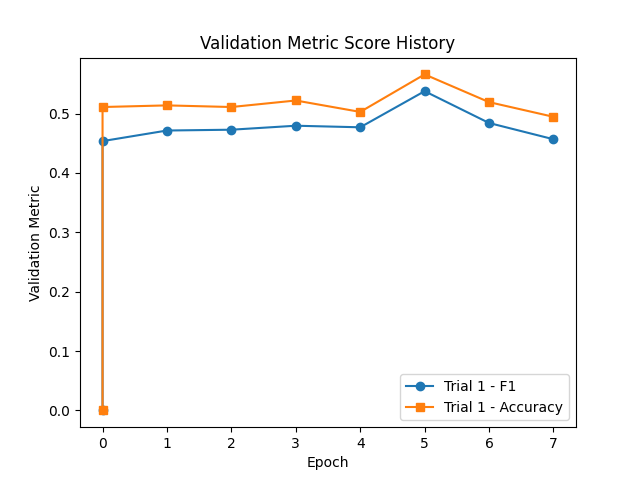
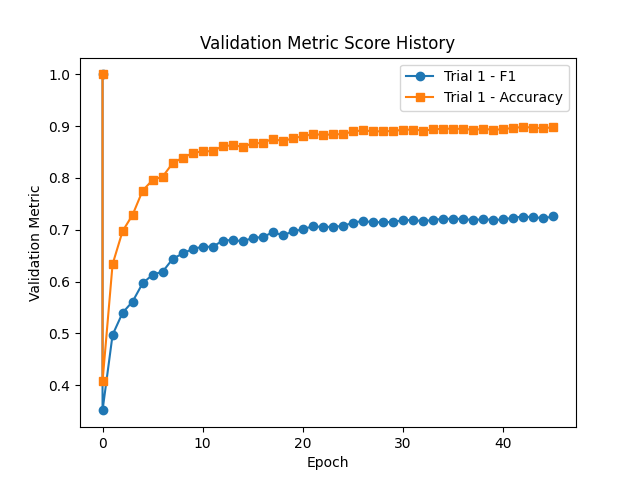
code for c data

diff --git a/sourcescripts/processing/graphconstruction.py b/sourcescripts/processing/graphconstruction.py
@@ -23,7 +23,7 @@ from dataprocessing import get_dep_add_lines_dataset
 def check_validity(_id):
     """Check whether sample with id=_id has enough node/edges."""
     try:
-        with open(f"{utls.processed_dir()}/dataset/before/{_id}.java.nodes.json", "r") as f:
+        with open(f"{utls.processed_dir()}/dataset/before/{_id}.c.nodes.json", "r") as f:
             nodes = json.load(f)
             lineNums = set()
             for n in nodes:
@@ -34,7 +34,7 @@ def check_validity(_id):
             if len(lineNums) <= 1:
                 return False
 
-        with open(f"{utls.processed_dir()}/dataset/before/{_id}.java.edges.json", "r") as f:
+        with open(f"{utls.processed_dir()}/dataset/before/{_id}.c.edges.json", "r") as f:
             edges = json.load(f)
             edge_set = set([i[2] for i in edges])
             if "REACHING_DEF" not in edge_set and "CDG" not in edge_set:
@@ -95,7 +95,7 @@ def process_item(_id, df, codebert=None, word2vec=None, sbert=None, lines=None, 
         return g
 
     code, lineno, ei, eo, et = feature_extraction(
-        f"{utls.processed_dir()}/dataset/before/{_id}.java", graph_type)
+        f"{utls.processed_dir()}/dataset/before/{_id}.c", graph_type)
     vuln = [1 if i in lines[_id] else 0 for i in lineno] if _id in lines else [0 for _ in lineno]
 
     g = dgl.graph((eo, ei))

diff --git a/sourcescripts/processing/dataprocessing.py b/sourcescripts/processing/dataprocessing.py
@@ -148,7 +148,7 @@ def dataset(minimal=True, sample=False, return_raw=False, splits="default"):
             return df
         except Exception as E:
             pass
-    filename = "sample_data.csv" if sample else        "ProjectKB_domain_csv.csv"         #"data_FFmpeg+qemu.csv" #"ProjectKB_domain_csv.csv" # 
+    filename = "sample_data.csv" if sample else    "MSR_data_cleaned.csv" #    "ProjectKB_domain_csv.csv"         #"data_FFmpeg+qemu.csv" #"ProjectKB_domain_csv.csv" # 
     df = pd.read_csv(utls.external_dir() / filename)
    
     df["dataset"] = "dataset" # change this to kbdataset
@@ -512,8 +512,8 @@ def helper(row):
     removed = df[df.id==177775].removed.item()
     helper({"id":177775, "removed": removed, "added": added})
     """
-    before_path = str(utls.processed_dir() / f"dataset/before/{row['id']}.java")
-    after_path = str(utls.processed_dir() / f"dataset/after/{row['id']}.java")
+    before_path = str(utls.processed_dir() / f"dataset/before/{row['id']}.c")
+    after_path = str(utls.processed_dir() / f"dataset/after/{row['id']}.c")
     try:
         dep_add_lines = get_dep_add_lines(before_path, after_path, row["added"])
     except Exception:

diff --git a/sourcescripts/model/scvuldetect.py b/sourcescripts/model/scvuldetect.py
@@ -645,6 +645,8 @@ def train_with_param_trials(df, graph_dir, config_grid):
         )
 
         trainer = Trainer(
+            devices=1,
+            num_nodes=1,
             max_epochs=config_grid['max_epochs'],
             callbacks=[checkpoint_callback, early_stopping_callback],
             logger=False,
@@ -693,7 +695,7 @@ def train_with_param_trials(df, graph_dir, config_grid):
 if __name__ == '__main__':
     df = dataset()
     config_grid = {
-       "method": "linelevel", # 'linelevel', # methodlevel, linelevel,
+       "method": "linelevel1", # 'linelevel', # methodlevel, linelevel,
         "embedd_method":  "Codebert", # "Codebert", "Sbert", or "Word2vec"
         'max_epochs':50, # 30,
         'in_feats': 768,   #768 for "Codebert", #384 for "Sbert", and  #100 for "Word2vec"

diff --git a/sourcescripts/processing/graphdata.py b/sourcescripts/processing/graphdata.py
@@ -33,10 +33,10 @@ def preprocess(row):
     savedir_after = utls.get_dir(utls.processed_dir() / row["dataset"] / "after")
 
     # Write C Files
-    fpath1 = savedir_before / f"{row['id']}.java"
+    fpath1 = savedir_before / f"{row['id']}.c"
     with open(fpath1, "w") as f:
         f.write(row["before"])
-    fpath2 = savedir_after / f"{row['id']}.java"
+    fpath2 = savedir_after / f"{row['id']}.c"
     if len(row["diff"]) > 0:
         with open(fpath2, "w") as f:
             f.write(row["after"])

diff --git a/sourcescripts/processing/graphdataprocessing.py b/sourcescripts/processing/graphdataprocessing.py
@@ -230,7 +230,7 @@ def full_run_joern(filepath: str, verbose=0):
 def full_run_joern_from_string(code: str, dataset: str, iid: str, verbose=0):
     """Run full joern from a string instead of file."""
     savedir = utls.get_dir(utls.interim_dir() / dataset)
-    savepath = savedir / f"{iid}.java"
+    savepath = savedir / f"{iid}.c"
     with open(savepath, "w") as f:
         f.write(code)
     return full_run_joern(savepath, verbose)
